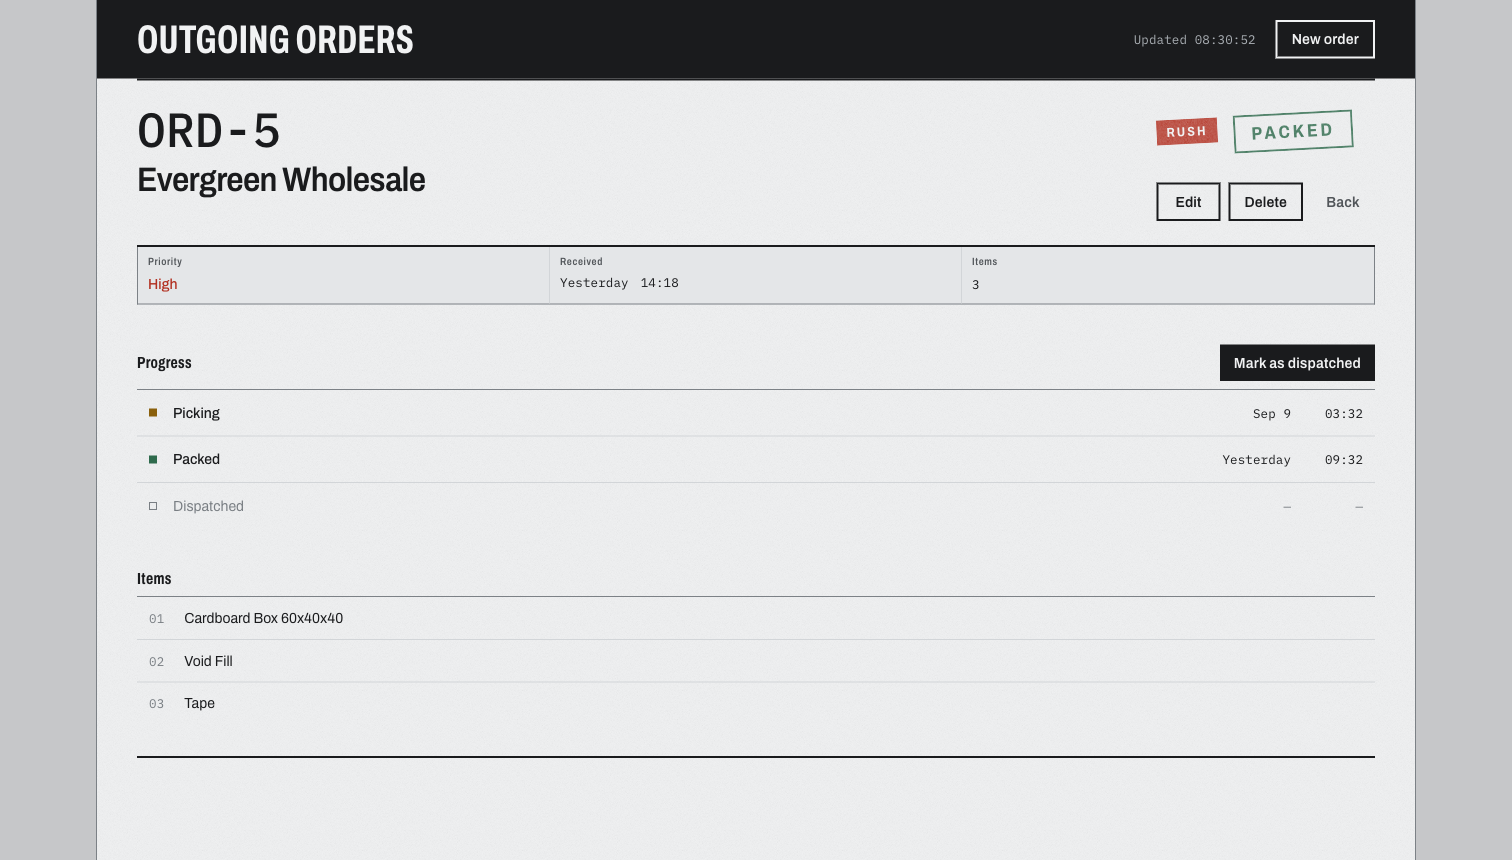
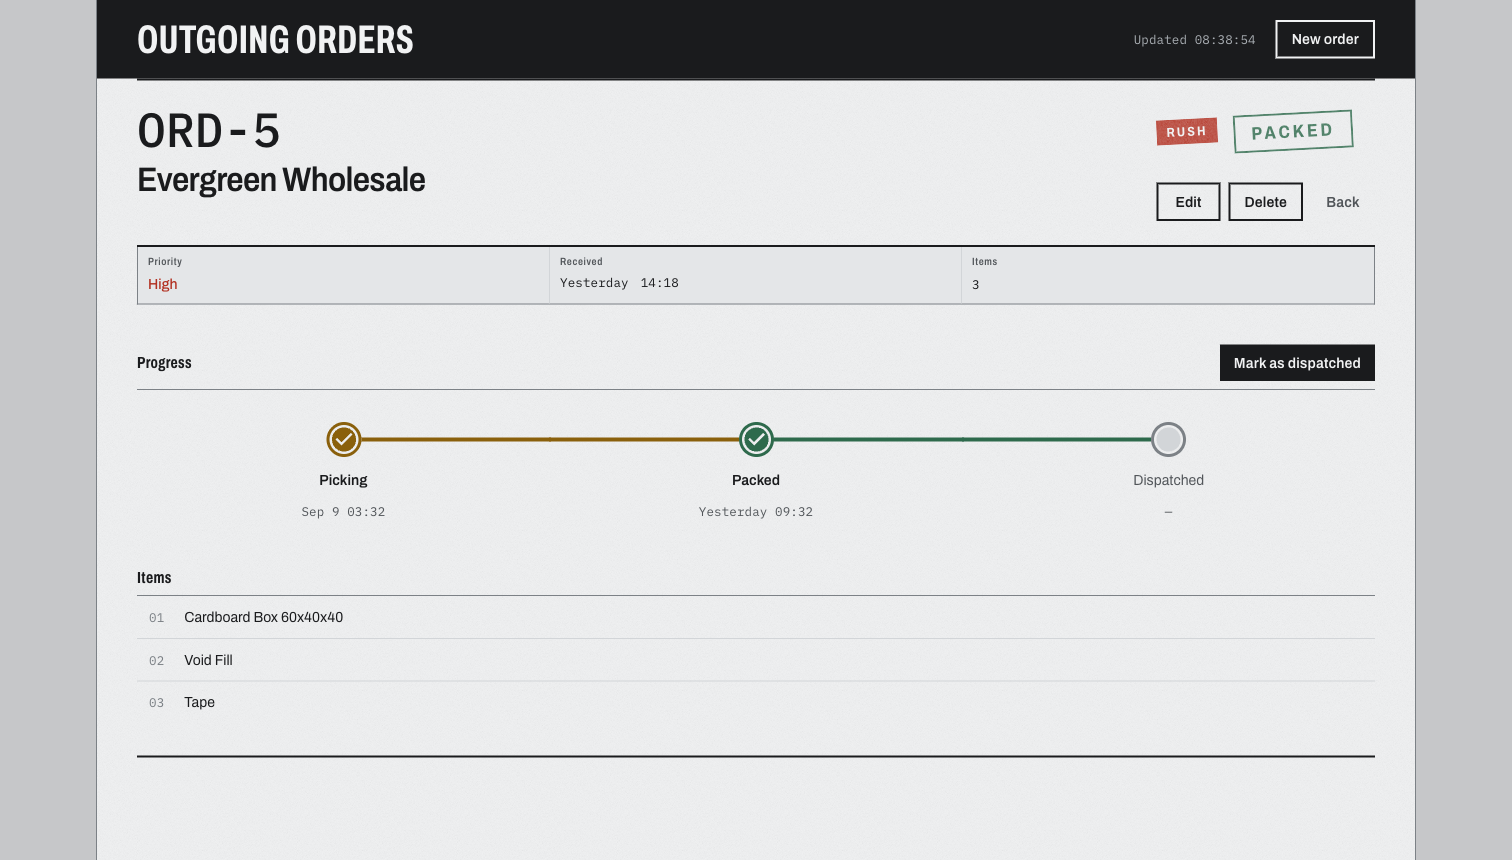
restore progress stepper

diff --git a/src/components/OutgoingOrderDetails/OutgoingOrderDetails.tsx b/src/components/OutgoingOrderDetails/OutgoingOrderDetails.tsx
@@ -1,6 +1,8 @@
 import { useNavigate, useParams } from 'react-router-dom';
 import { Box, Button, Typography, capitalize } from '@mui/material';
 import { useEffect, useState } from 'react';
+import CheckCircleIcon from '@mui/icons-material/CheckCircle';
+import CircleIcon from '@mui/icons-material/Circle';
 import Stamp from '../common/Stamp';
 import Rule from '../common/Rule';
 import Field from '../common/Field';
@@ -56,6 +58,15 @@ const OutgoingOrderDetails = () => {
     }
 
     const received = formatOrderStamp(order.createdAt);
+    const stages = TIMELINE_STATUSES.map((status) => {
+        const entry = order.statusHistory.find((history) => history.status === status);
+        return {
+            status,
+            done: Boolean(entry),
+            color: statusColor(status).ink,
+            stamped: entry ? formatOrderStamp(entry.timestamp) : null,
+        };
+    });
     const isHighPriority = order.priority === ORDER_PRIORITIES.HIGH;
     // Only stamp down when the change arrived from another client while watching.
     const justChangedStatus = recentChanges[order.id]?.statusChanged ?? false;
@@ -172,47 +183,79 @@ const OutgoingOrderDetails = () => {
                 </Box>
                 <Rule weight='mid' />
 
-                {TIMELINE_STATUSES.map((status, index) => {
-                    const entry = order.statusHistory.find((history) => history.status === status);
-                    const stamped = entry ? formatOrderStamp(entry.timestamp) : null;
-                    const stageColor = statusColor(status).ink;
+                {/*
+                    The original stepper, restored. The pattern was always right for
+                    a fixed three-stage pipeline; only the stock styling read as
+                    generic. Each completed stage takes its status colour, matching
+                    the tally, and a stage's outgoing line fills once it's done.
+                */}
+                <Box
+                    component='ol'
+                    sx={{
+                        display: 'grid',
+                        gridTemplateColumns: 'repeat(3, minmax(0, 1fr))',
+                        listStyle: 'none',
+                        m: 0,
+                        p: 0,
+                        pt: 4,
+                        pb: 1,
+                    }}
+                >
+                    {stages.map(({ status, done, color, stamped }, index) => {
+                        const incoming = index > 0 ? stages[index - 1] : null;
+                        const leftLine = incoming ? (incoming.done ? incoming.color : colors.ruleHair) : 'transparent';
+                        const rightLine = index < stages.length - 1 ? (done ? color : colors.ruleHair) : 'transparent';
+                        const nodeColor = done ? color : colors.ruleHair;
+                        const iconSx = {
+                            border: `3px solid ${done ? color : colors.ruleMid}`,
+                            borderRadius: '50%',
+                            color: nodeColor,
+                            flexShrink: 0,
+                        };
 
-                    return (
-                        <Box key={status}>
-                            {index > 0 && <Rule weight='hair' />}
+                        return (
                             <Box
-                                sx={{
-                                    display: 'flex',
-                                    alignItems: 'center',
-                                    gap: 2,
-                                    py: 1.5,
-                                    px: 1.5,
-                                    color: stamped ? 'text.primary' : 'text.disabled',
-                                }}
+                                component='li'
+                                key={status}
+                                sx={{ display: 'flex', flexDirection: 'column', alignItems: 'center', gap: 1.5 }}
                             >
-                                <Box
-                                    aria-hidden
+                                <Box sx={{ display: 'flex', alignItems: 'center', width: '100%' }} aria-hidden>
+                                    <Box sx={{ flex: 1, height: 4, backgroundColor: leftLine }} />
+                                    {done ? (
+                                        <CheckCircleIcon fontSize='large' sx={iconSx} />
+                                    ) : (
+                                        <CircleIcon fontSize='large' sx={iconSx} />
+                                    )}
+                                    {/* Overlap the next column by 1px: two halves meeting at a
+                                        fractional pixel boundary left a visible seam, and both
+                                        halves of a connector share a colour so the overlap is
+                                        invisible. */}
+                                    <Box
+                                        sx={{
+                                            flex: 1,
+                                            height: 4,
+                                            backgroundColor: rightLine,
+                                            mr: index < stages.length - 1 ? '-1px' : 0,
+                                        }}
+                                    />
+                                </Box>
+                                <Typography
+                                    variant='body1'
                                     sx={{
-                                        width: 8,
-                                        height: 8,
-                                        flexShrink: 0,
-                                        backgroundColor: stamped ? stageColor : 'transparent',
-                                        border: stamped ? 'none' : `1px solid ${colors.inkFaint}`,
+                                        color: done ? 'text.primary' : 'text.secondary',
+                                        fontWeight: done ? 600 : 400,
+                                        textAlign: 'center',
                                     }}
-                                />
-                                <Typography variant='body1' sx={{ flex: 1, fontWeight: stamped ? 500 : 400 }}>
+                                >
                                     {capitalize(status)}
                                 </Typography>
-                                <Typography variant='data' sx={{ width: '5.5rem', textAlign: 'right' }}>
-                                    {stamped ? stamped.day : '—'}
-                                </Typography>
-                                <Typography variant='data' sx={{ width: '3.5rem', textAlign: 'right' }}>
-                                    {stamped ? stamped.time : '—'}
+                                <Typography variant='data' sx={{ color: 'text.secondary', textAlign: 'center' }}>
+                                    {stamped ? `${stamped.day} ${stamped.time}` : '—'}
                                 </Typography>
                             </Box>
-                        </Box>
-                    );
-                })}
+                        );
+                    })}
+                </Box>
 
                 <PackingList products={order.items} />
 
